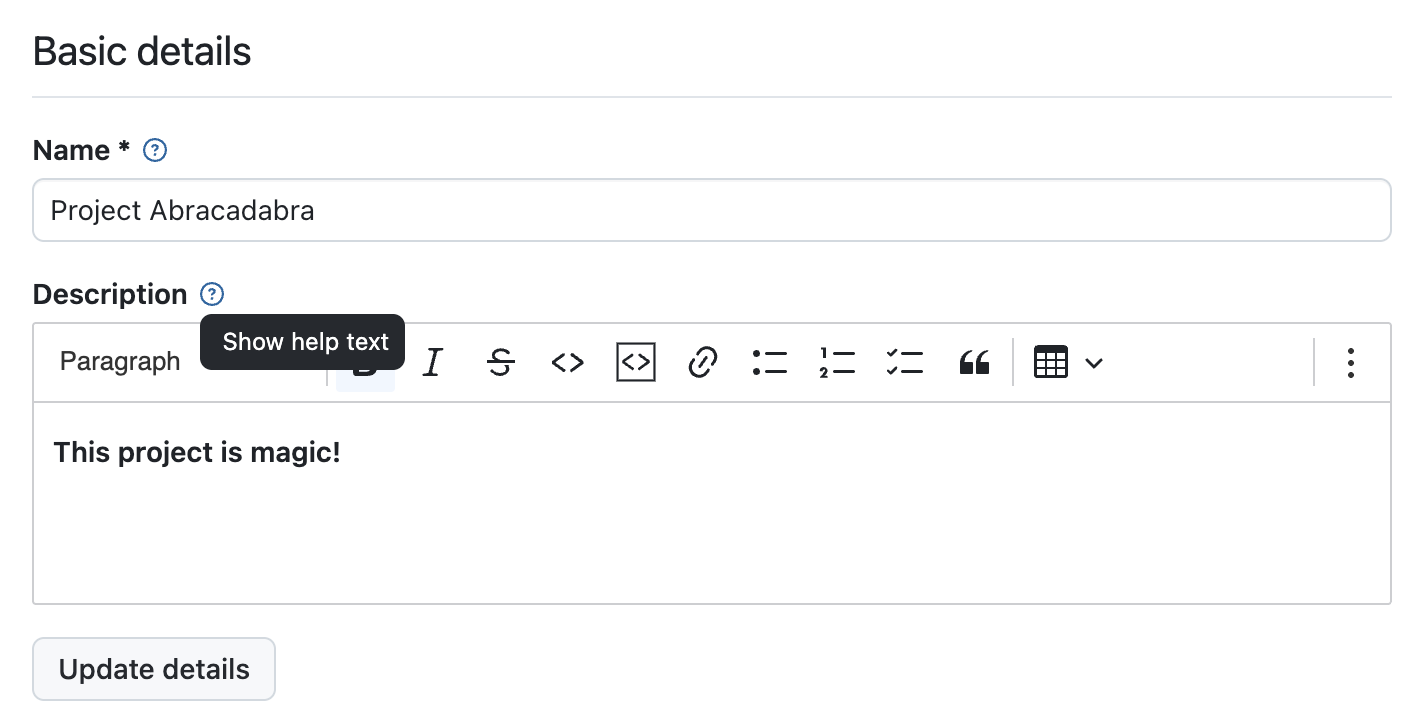
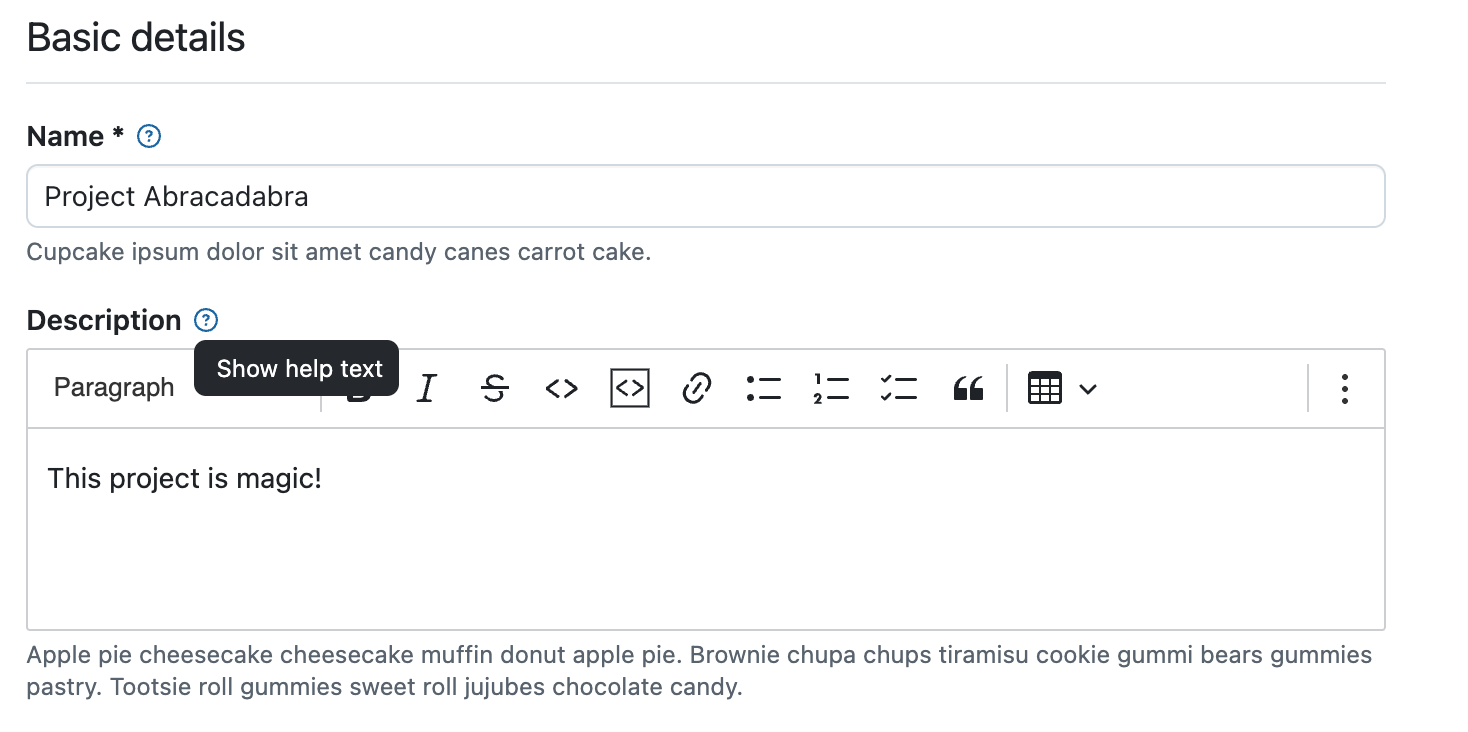
Document new AttributeHelpText caption in Lookbook

diff --git a/lookbook/previews/open_project/common/attribute_help_text_component_preview.rb b/lookbook/previews/open_project/common/attribute_help_text_component_preview.rb
@@ -47,7 +47,11 @@ module OpenProject
       end
 
       def in_a_form
-        render_with_template # (locals: { help_text: work_package_help_text })
+        render_with_template
+      end
+
+      def standalone_caption
+        render_with_template(locals: { help_text: project_help_text })
       end
 
       private
@@ -61,6 +65,7 @@ module OpenProject
           .build_stubbed(
             :project_help_text,
             attribute_name: "name",
+            caption: "A short summary",
             help_text: <<~MARKDOWN
               #### Goal
 

diff --git a/spec/factories/attribute_help_text_factory.rb b/spec/factories/attribute_help_text_factory.rb
@@ -4,12 +4,14 @@ FactoryBot.define do
   factory :work_package_help_text, class: "AttributeHelpText::WorkPackage" do
     type { "AttributeHelpText::WorkPackage" }
     help_text { "Attribute help text" }
+    caption { "Some caption" }
     attribute_name { "status" }
   end
 
   factory :project_help_text, class: "AttributeHelpText::Project" do
     type { "AttributeHelpText::Project" }
     help_text { "Attribute help text" }
+    caption { "Some caption" }
     attribute_name { "status" }
   end
 end